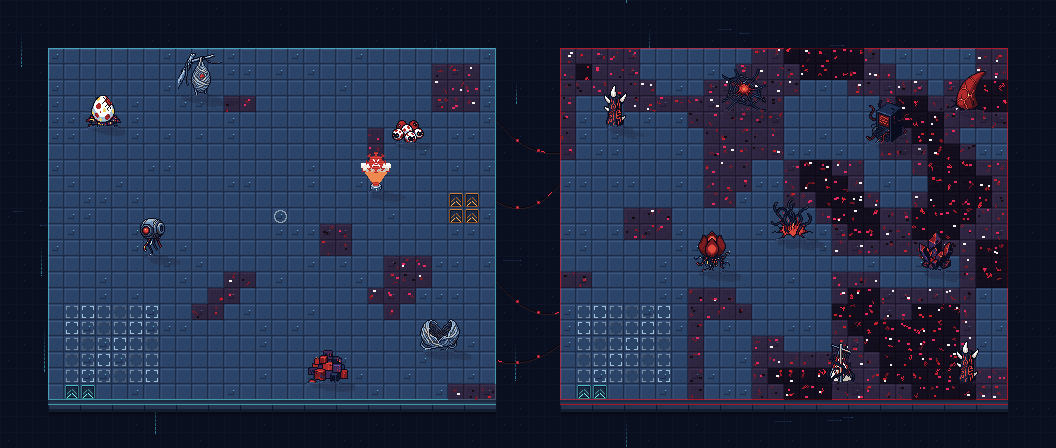
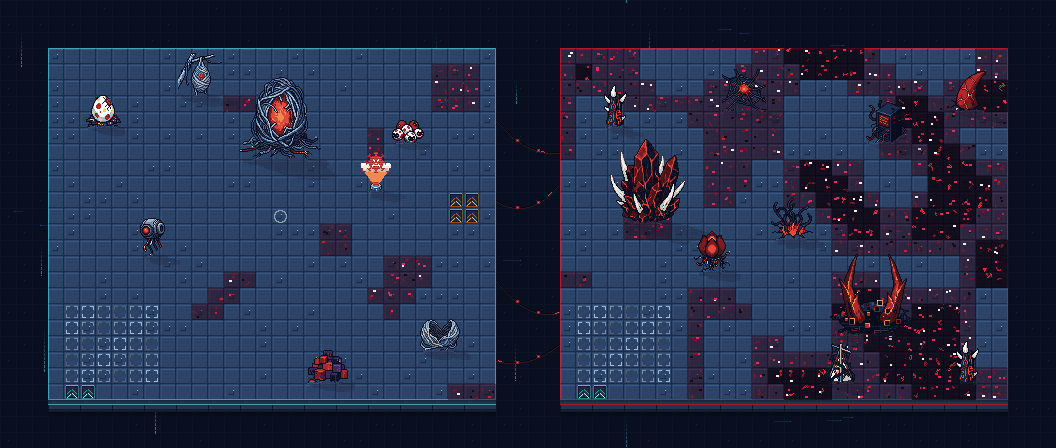
Karte 17: grosse Virus-Objekte (Kabel-Kokon, Knochenkristall, Hoernerkrater)
Claude-Session: https://claude.ai/code/session_01SaoYHKhnro4LFcPJqjaPsq

Changed region(s): [[0.7812, 0.5312, 0.9062, 0.75], [0.5625, 0.3125, 0.6562, 0.5], [0.2188, 0.1562, 0.3125, 0.375]]

diff --git a/tools/karte17_objekte.py b/tools/karte17_objekte.py
@@ -14,10 +14,12 @@ T = 16
 L, RX, OBEN = 3, 35, 3          # linke Kante der Inseln, obere Kante (Kacheln)
 G = 'glut'
 EINTRAEGE = [(n, (x0 + cx) * T, OBEN + r, 'virusglut', False) for (n, x0, cx, r) in [
+    ('gross/01', L, 14.5, 6),                              # grosse Objekte zuerst: Kabel-Kokon mit Kern (links)
+    ('gross/03', RX, 19.5, 17), ('gross/00', RX, 5.5, 10),   # Hoernerkrater, Knochenkristall (rechts)
     ('virus/00', L, 3.5, 4), ('virus/02', L, 9.5, 2), ('virus/01', L, 22.5, 5), ('virus/11', L, 24.5, 18),
     ('virus/15', L, 6.5, 12), ('virus/08', L, 17.5, 20), ('virus/09', L, 20.5, 8),
     ('virus/04', RX, 3.5, 4), ('virus/03', RX, 11.5, 3), ('virus/06', RX, 20.5, 5), ('virus/05', RX, 25.5, 3),
-    ('virus/10', RX, 14.5, 11), ('virus/14', RX, 23.5, 13), ('virus/13', RX, 9.5, 13), ('virus/07', RX, 17.5, 20),
+    ('virus/10', RX, 14.5, 11), ('virus/13', RX, 9.5, 13), ('virus/07', RX, 17.5, 20),
     ('virus/04', RX, 25.5, 20),
 ]]
 
